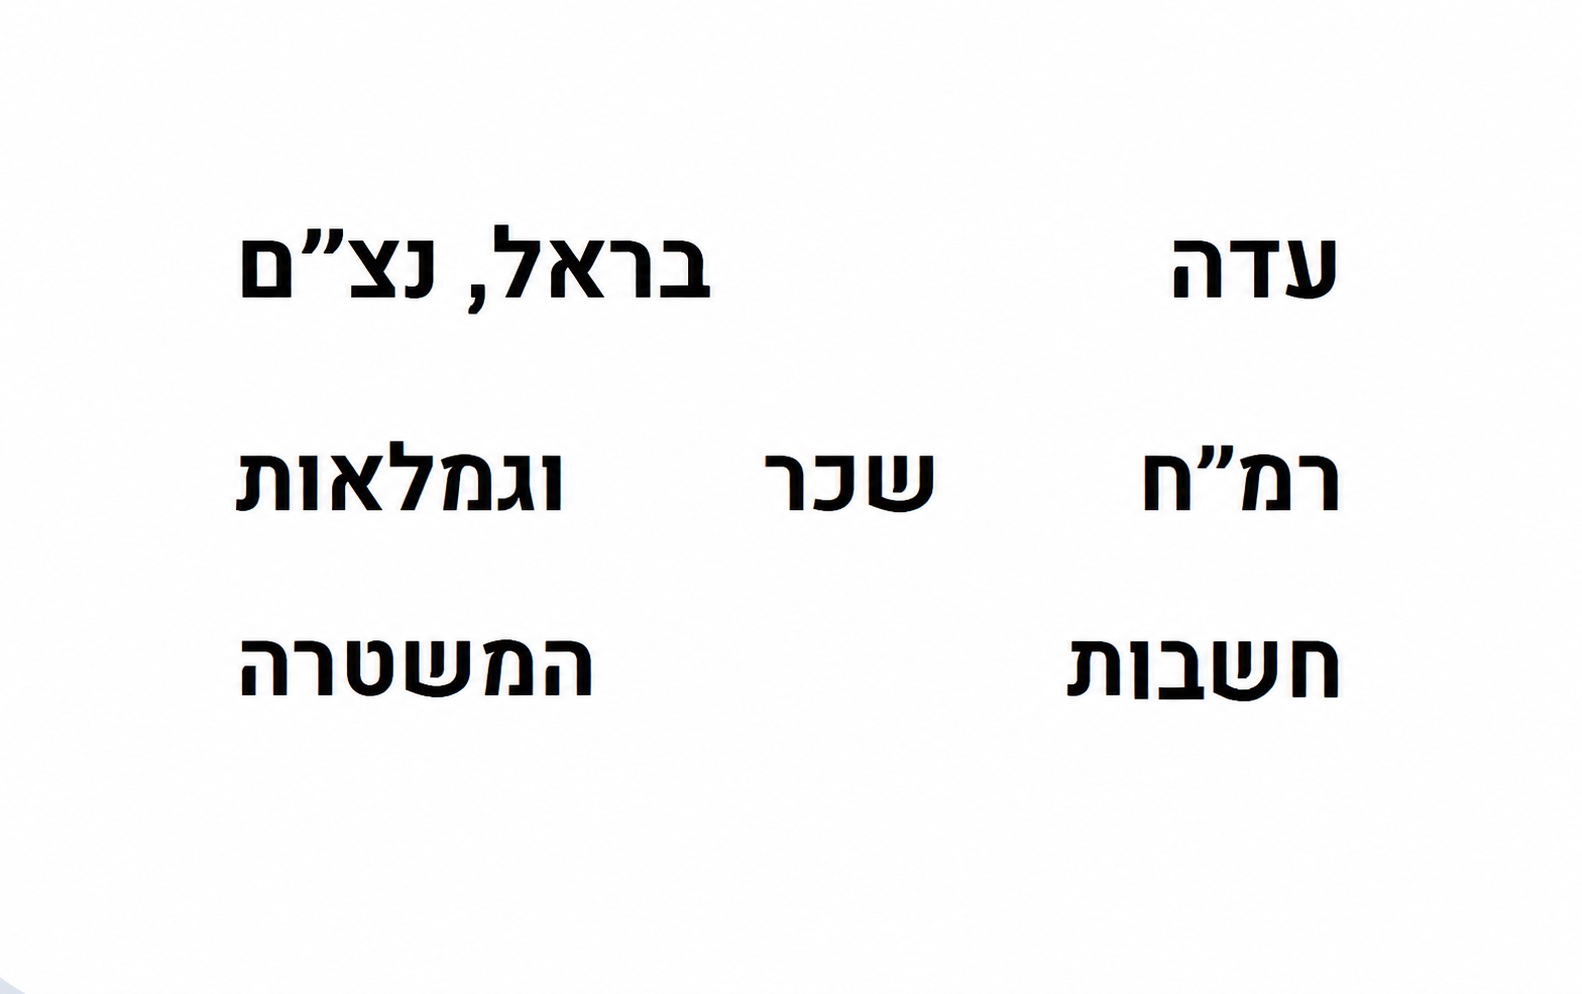
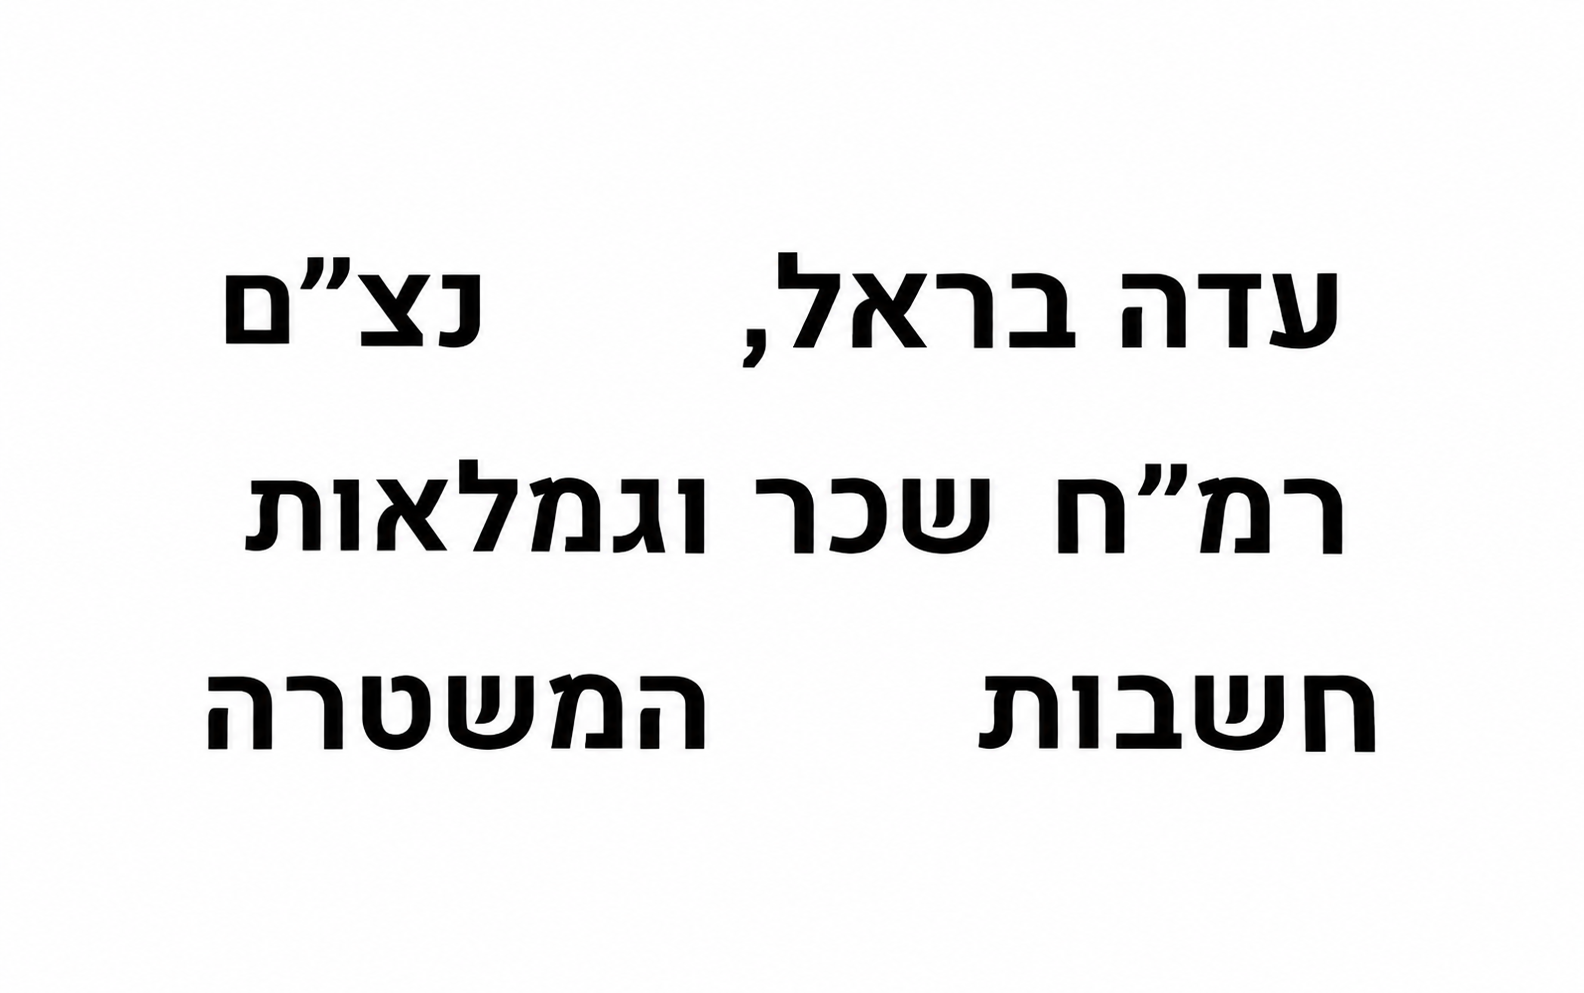
שינויים

diff --git a/src/index.css b/src/index.css
@@ -1548,8 +1548,8 @@ tbody td {
 
 .signatures-section .signature-moran-image {
   display: block;
-  width: 200px;
-  max-width: 200px;
+  width: 250px;
+  max-width: 250px;
   height: auto;
   object-fit: contain;
   align-self: flex-end;
@@ -1773,7 +1773,15 @@ tbody td {
   }
 
   .signatures-section .signature-ada-image,
-  .signatures-section .signature-hagit-image,
+  .signatures-section .signature-hagit-image
+   {
+    width: 200px;
+    max-width: 200px;
+    height: auto;
+    align-self: flex-end;
+    margin: 0 10px 0 0;
+  }
+
   .signatures-section .signature-moran-image {
     width: 200px;
     max-width: 200px;
